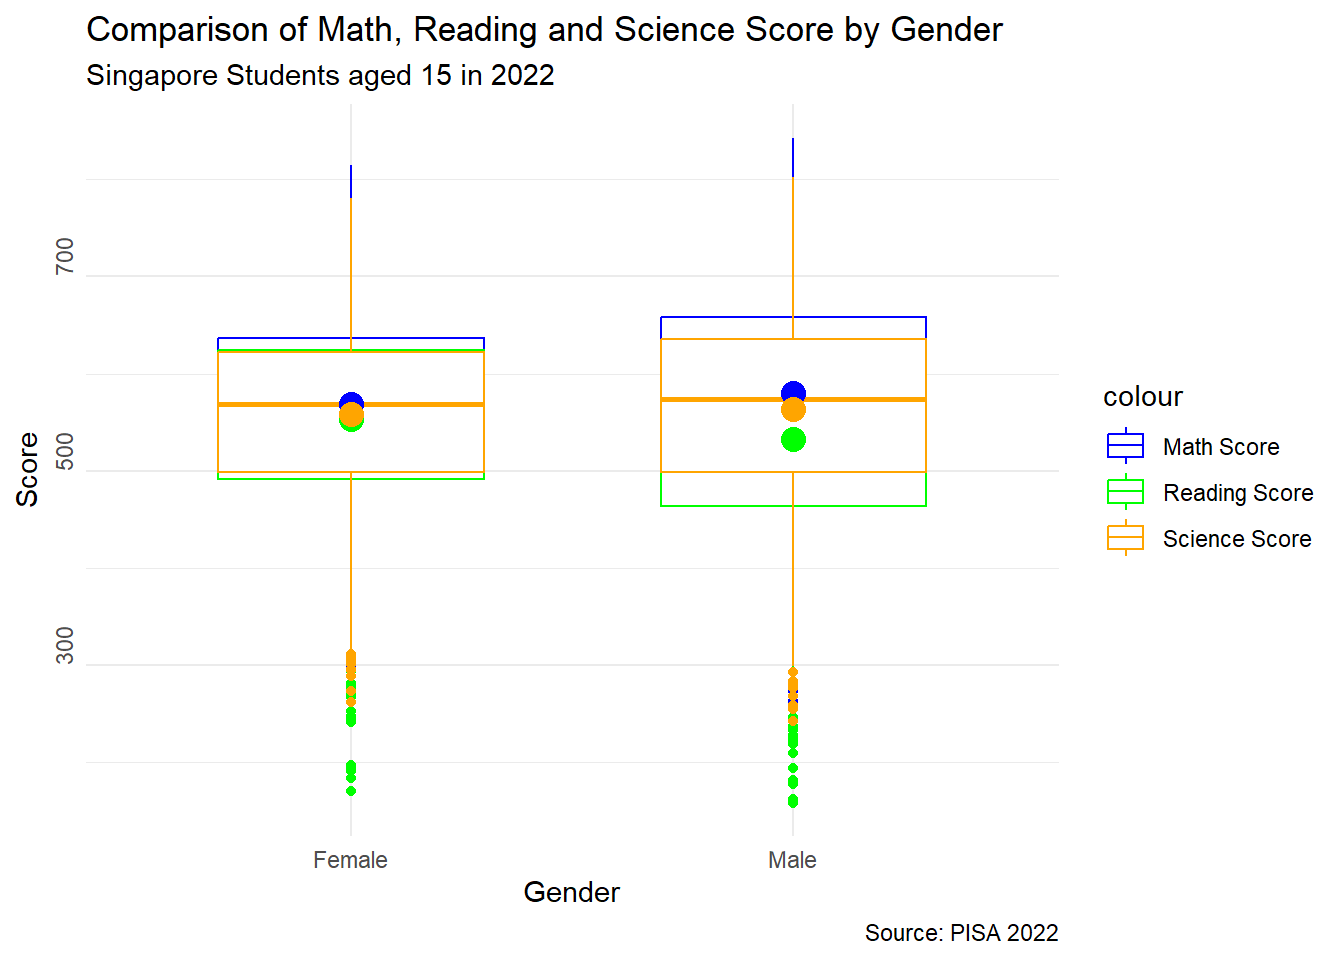
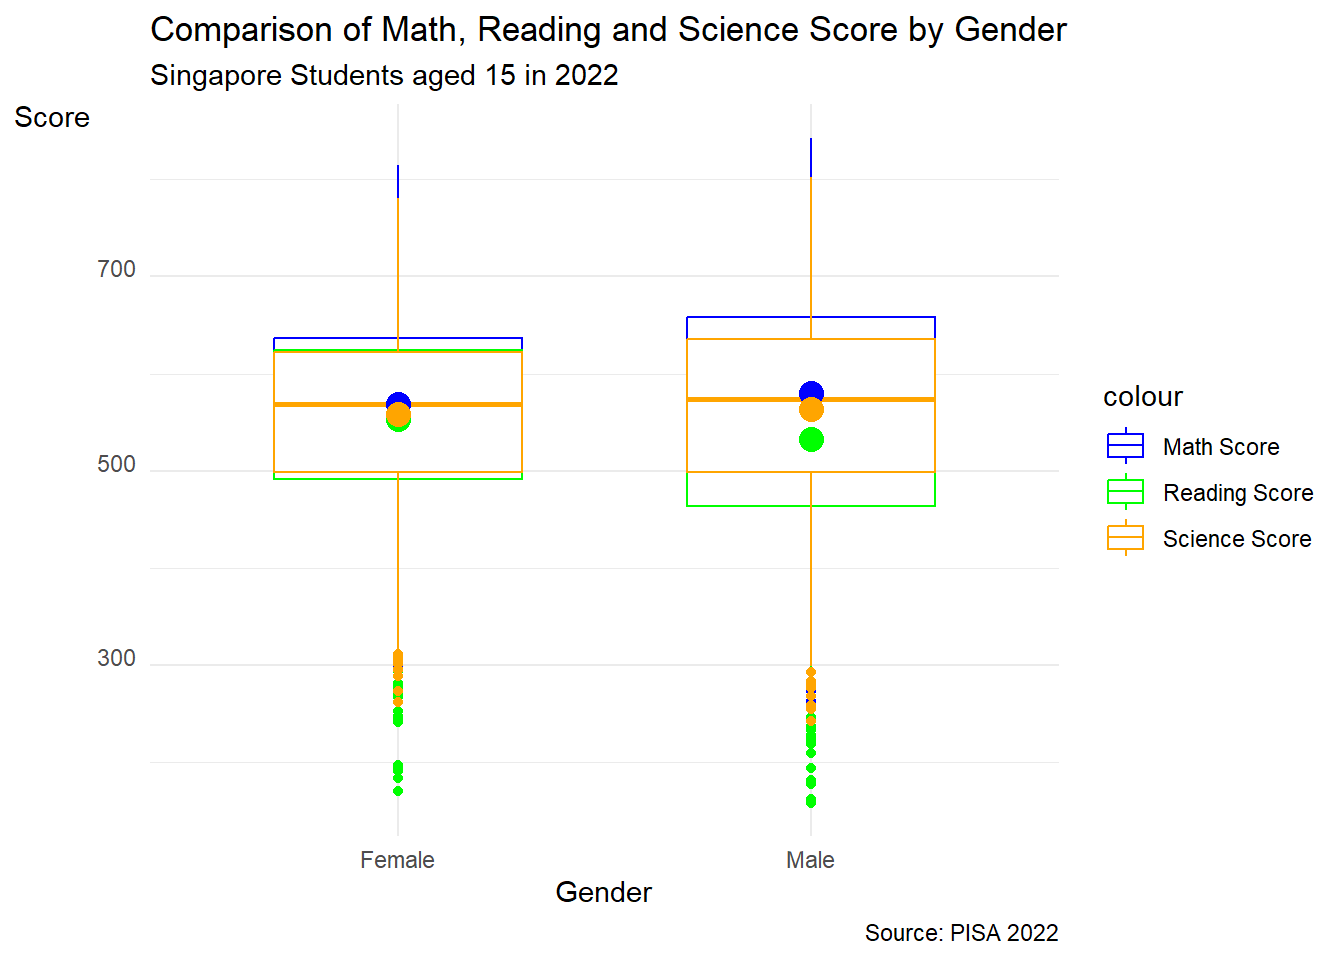
take_home_ex02 commit 5

diff --git a/_site/take_home_ex/take_home_ex02/take_home_ex02.html b/_site/take_home_ex/take_home_ex02/take_home_ex02.html
@@ -306,9 +306,10 @@ pre > code.sourceCode > span > a:first-child::before { text-decoration: underlin
   <li><a href="#colour-1" id="toc-colour-1" class="nav-link" data-scroll-target="#colour-1">5.3.1 Colour</a></li>
   <li><a href="#title-and-axes-label-1" id="toc-title-and-axes-label-1" class="nav-link" data-scroll-target="#title-and-axes-label-1">5.3.2 Title and Axes Label</a></li>
   </ul></li>
-  <li><a href="#propose-sketch" id="toc-propose-sketch" class="nav-link" data-scroll-target="#propose-sketch">4.4 Propose sketch</a></li>
+  <li><a href="#propose-sketch" id="toc-propose-sketch" class="nav-link" data-scroll-target="#propose-sketch">5.4 Propose sketch</a></li>
   <li><a href="#final-design-1" id="toc-final-design-1" class="nav-link" data-scroll-target="#final-design-1">5.5 Final Design</a></li>
   </ul></li>
+  <li><a href="#learning-points" id="toc-learning-points" class="nav-link" data-scroll-target="#learning-points">6 Learning Points</a></li>
   </ul>
 </nav>
     </div>
@@ -341,7 +342,7 @@ pre > code.sourceCode > span > a:first-child::before { text-decoration: underlin
     <div>
     <div class="quarto-title-meta-heading">Modified</div>
     <div class="quarto-title-meta-contents">
-      <p class="date-modified">January 24, 2024</p>
+      <p class="date-modified">January 25, 2024</p>
     </div>
   </div>
     
@@ -400,11 +401,11 @@ pre > code.sourceCode > span > a:first-child::before { text-decoration: underlin
 </section>
 <section id="axes-labelling" class="level3">
 <h3 class="anchored" data-anchor-id="axes-labelling">4.2.2 Axes Labelling</h3>
-<p>Axes labels must be meaningful to ensure readers are aware of what the axes represents. Names such as count is vague and can be improved to be more specific.</p>
+<p>Axes labels must be meaningful to ensure readers are aware of what the axes represents. Names such as <strong>count</strong> is vague and can be improved to be more specific.</p>
 </section>
 <section id="adding-of-mean" class="level3">
 <h3 class="anchored" data-anchor-id="adding-of-mean">4.2.3 Adding of Mean</h3>
-<p>Mean or Median can be included to provide audience with a better interpretation of the distribution among the subjects.</p>
+<p>Mean or Median can be included to provide audience with a better interpretation of the distribution among the subjects. This can also be compared among the different subjects.</p>
 </section>
 </section>
 <section id="aesthetics" class="level2">
@@ -420,6 +421,7 @@ pre > code.sourceCode > span > a:first-child::before { text-decoration: underlin
 </section>
 <section id="proposed-sketch" class="level2">
 <h2 class="anchored" data-anchor-id="proposed-sketch">4.4 Proposed sketch</h2>
+<p><img src="images/20240125_214435.jpg" class="img-fluid" width="455"></p>
 </section>
 <section id="final-design" class="level2">
 <h2 class="anchored" data-anchor-id="final-design">4.5 Final Design</h2>
@@ -546,13 +548,13 @@ pre > code.sourceCode > span > a:first-child::before { text-decoration: underlin
 <h2 class="anchored" data-anchor-id="original-design-1">5.1 Original Design</h2>
 <p>The original design is shown below:</p>
 <p><img src="images/2.PNG" class="img-fluid"></p>
-<p>The above is a boxplot.</p>
+<p>The above is a boxplot to show the comparison between the various subjects among female and male.</p>
 </section>
 <section id="clarity-1" class="level2">
 <h2 class="anchored" data-anchor-id="clarity-1">5.2 Clarity</h2>
 <section id="graph-title-1" class="level3">
 <h3 class="anchored" data-anchor-id="graph-title-1"><strong>5.1.1 Graph Title</strong></h3>
-<p>Interesting insight from the graph can be put as a main title. The graph title should be interesting to grab the attention of readers. In addition, putting F and M may be misleading to the readers</p>
+<p>Interesting insight from the graph can be put as a main title. The graph title should be interesting to grab the attention of readers. In addition, putting <strong>F</strong> and <strong>M</strong> may be misleading to the readers</p>
 </section>
 <section id="axes-labelling-1" class="level3">
 <h3 class="anchored" data-anchor-id="axes-labelling-1">5.2.1 Axes Labelling</h3>
@@ -567,11 +569,12 @@ pre > code.sourceCode > span > a:first-child::before { text-decoration: underlin
 </section>
 <section id="title-and-axes-label-1" class="level3">
 <h3 class="anchored" data-anchor-id="title-and-axes-label-1">5.3.2 Title and Axes Label</h3>
-<p>In addition, the orientation of the histograms can be changed to ensure the title is readable. The rotation of y-axis label should be changed to ensure readability as well. Spelling of the y and x axis label can be adjusted accordingly to a give a more formal formatting (e.g.&nbsp;first letter of each word is capitalised while the rest is not)</p>
+<p>In addition, the boxplots can be combined and also the title can be improved to be more readable. The rotation of y-axis label should be changed to ensure readability as well. Spelling of the y and x axis label can be adjusted accordingly to a give a more formal formatting (e.g.&nbsp;first letter of each word is capitalised while the rest is not). If legends are used, it should be labelled clearly.</p>
 </section>
 </section>
 <section id="propose-sketch" class="level2">
-<h2 class="anchored" data-anchor-id="propose-sketch">4.4 Propose sketch</h2>
+<h2 class="anchored" data-anchor-id="propose-sketch">5.4 Propose sketch</h2>
+<p><img src="images/20240125_214912-01.jpg" class="img-fluid" width="476"></p>
 </section>
 <section id="final-design-1" class="level2">
 <h2 class="anchored" data-anchor-id="final-design-1">5.5 Final Design</h2>
@@ -598,17 +601,23 @@ pre > code.sourceCode > span > a:first-child::before { text-decoration: underlin
 <span id="cb8-16"><a href="#cb8-16" aria-hidden="true" tabindex="-1"></a>    <span class="at">y =</span> <span class="st">"Score"</span></span>
 <span id="cb8-17"><a href="#cb8-17" aria-hidden="true" tabindex="-1"></a>  ) <span class="sc">+</span></span>
 <span id="cb8-18"><a href="#cb8-18" aria-hidden="true" tabindex="-1"></a>  <span class="fu">theme_minimal</span>()<span class="sc">+</span></span>
-<span id="cb8-19"><a href="#cb8-19" aria-hidden="true" tabindex="-1"></a>  <span class="fu">theme</span>(<span class="at">axis.text.y =</span> <span class="fu">element_text</span>(<span class="at">angle =</span> <span class="dv">90</span>, <span class="at">hjust =</span> <span class="dv">0</span>, <span class="at">vjust =</span> <span class="dv">0</span>))</span>
-<span id="cb8-20"><a href="#cb8-20" aria-hidden="true" tabindex="-1"></a>  </span>
-<span id="cb8-21"><a href="#cb8-21" aria-hidden="true" tabindex="-1"></a></span>
-<span id="cb8-22"><a href="#cb8-22" aria-hidden="true" tabindex="-1"></a>combined_boxplot</span></code><button title="Copy to Clipboard" class="code-copy-button"><i class="bi"></i></button></pre></div>
+<span id="cb8-19"><a href="#cb8-19" aria-hidden="true" tabindex="-1"></a>  <span class="fu">theme</span>(<span class="at">axis.text.y =</span> <span class="fu">element_text</span>(<span class="at">angle =</span> <span class="dv">0</span>, <span class="at">hjust =</span> <span class="dv">0</span>, <span class="at">vjust =</span> <span class="dv">0</span>),</span>
+<span id="cb8-20"><a href="#cb8-20" aria-hidden="true" tabindex="-1"></a>        <span class="at">axis.title.y =</span> <span class="fu">element_text</span>(<span class="at">angle =</span> <span class="dv">0</span>))</span>
+<span id="cb8-21"><a href="#cb8-21" aria-hidden="true" tabindex="-1"></a>  </span>
+<span id="cb8-22"><a href="#cb8-22" aria-hidden="true" tabindex="-1"></a></span>
+<span id="cb8-23"><a href="#cb8-23" aria-hidden="true" tabindex="-1"></a>combined_boxplot</span></code><button title="Copy to Clipboard" class="code-copy-button"><i class="bi"></i></button></pre></div>
 <div class="cell-output-display">
 <p><img src="take_home_ex02_files/figure-html/unnamed-chunk-8-1.png" class="img-fluid" width="672"></p>
 </div>
 </div>
-
-
 </section>
+</section>
+<section id="learning-points" class="level1">
+<h1>6 Learning Points</h1>
+<p>Take Home Exercise 2 has enabled me to improve my peer’s Take Home Exercise 1. In addition, it serves as an opportunity to improve my own work (if time permits). I understand the need to have an appropriate visualisation to communicate a “story” to the potential audience. It is not just plotting a boxplot/histogram. The design, colours and words used should convey a theme and message. This exercise also has enabled me to spend time in understanding the&nbsp;<strong>ggplot (grammar of graphics)</strong>.</p>
+<p>From a work perspective, I should be mindful in giving critique to colleagues in terms of their work. We would need acknowledge the effort done and provide the information as a form of improvement. We should not let down on fellow colleagues’ hard work.</p>
+
+
 </section>
 
 </main> <!-- /main -->
